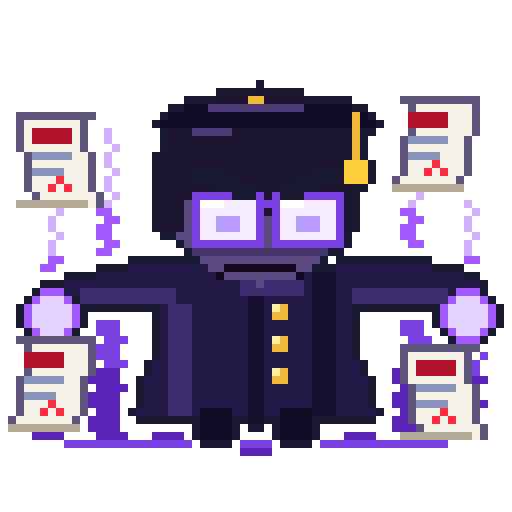
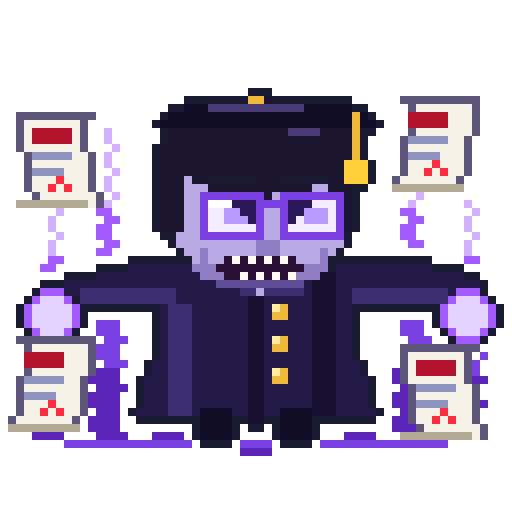
feat: finalize enemy character concepts and preview

diff --git a/docs/enemy-remodel/preview.html b/docs/enemy-remodel/preview.html
@@ -1,0 +1,122 @@
+<!doctype html>
+<html lang="en"><head><meta charset="utf-8"><meta name="viewport" content="width=device-width,initial-scale=1">
+<title>War of Collegian - Enemy Preview</title>
+<style>
+:root{--bg:#0e1a48;--panel:#142764;--ink:#081032;--chalk:#f1f4ff;--muted:#bcc4ea;--gold:#ffd23a;--sky:#9ad0f5;--road:#c3c8cf}
+*{box-sizing:border-box}body{margin:0;background:var(--bg);color:var(--chalk);font:15px/1.5 system-ui,"Segoe UI",sans-serif;padding:24px}
+h1{margin:0 0 4px;font-size:26px}h2{margin:32px 0 12px;font-size:20px;color:var(--gold)}p.lead{margin:0;color:var(--muted);max-width:80ch}
+img,.spr{image-rendering:pixelated}
+.bar{display:flex;gap:8px;flex-wrap:wrap;margin:16px 0}.bar button{font:inherit;color:var(--chalk);background:var(--panel);border:2px solid var(--ink);border-radius:10px;padding:6px 12px;cursor:pointer}
+.bar button[aria-pressed=true]{outline:3px solid var(--gold)}
+.grid{display:grid;grid-template-columns:repeat(auto-fill,minmax(420px,1fr));gap:16px}
+.card{background:var(--panel);border:2px solid var(--ink);border-radius:14px;padding:14px}.card.concept{border-color:var(--gold)}
+.card h3{margin:0;font-size:18px}.card header p{margin:2px 0 10px;color:var(--muted)}
+.tag{display:inline-block;padding:1px 8px;border-radius:999px;font-size:12px;font-weight:700;color:var(--ink)}.tag.game{background:#52d49a}.tag.concept{background:var(--gold)}
+.views{display:flex;gap:14px;align-items:flex-end;flex-wrap:wrap}figure{margin:0}figcaption{font-size:12px;color:var(--muted);margin-top:4px;max-width:340px}
+.s6{width:384px;height:384px;display:block}.s2{width:128px;height:128px;display:block}.flip{transform:scaleX(-1)}
+.bg-sky .s6,.bg-sky .field,.bg-sky .strip{background:linear-gradient(var(--sky) 70%,var(--road) 70%)}
+.bg-dark .s6,.bg-dark .field,.bg-dark .strip{background:#1c2250}
+.bg-check .s6,.bg-check .field,.bg-check .strip{background:repeating-conic-gradient(#d9d9d9 0 25%,#fff 0 50%) 0 0/16px 16px}
+.field{display:flex;align-items:flex-end;justify-content:center;gap:0;width:288px;height:150px;padding-bottom:2px}
+.spr{display:block;width:128px;height:128px;flex:none}.hero{background:url(../../assets/characters/ict/bug_hunter/idle.png) 0 0/400% 100% no-repeat}
+.meta{margin:10px 0 0;font-size:12.5px;color:var(--muted)}
+.strip{display:flex;align-items:flex-end;gap:0;padding:12px 8px 6px;border-radius:14px;overflow-x:auto}.strip figure{flex:none;text-align:center;width:150px}.strip figcaption{max-width:none;color:#13204f}
+.bg-dark .strip figcaption{color:var(--muted)}
+table{border-collapse:collapse;width:100%;max-width:980px;font-size:13.5px}th,td{text-align:left;padding:6px 10px;border-bottom:1px solid #2a3c86}th{color:var(--muted);font-weight:600}
+.note{color:var(--muted);font-size:13px;max-width:90ch}
+@media (max-width:520px){.s6{width:100%;height:auto;aspect-ratio:1}.field{width:100%}}
+</style></head>
+<body class="bg-sky">
+<h1>War of Collegian - Enemy preview (static, review build)</h1>
+<p class="lead">All nine enemies next to Bug Hunter. The five "in game" enemies are the current roster; the four "concept only" teaching-staff characters are <b>not</b> in gameplay. Sprites are 64x64 chibi pixel art with a dark inner and a white outer outline. No animation yet.</p>
+<div class="bar" role="group" aria-label="Background"><button data-bg="bg-sky" aria-pressed="true">Battlefield</button><button data-bg="bg-dark" aria-pressed="false">Dark</button><button data-bg="bg-check" aria-pressed="false">Transparency</button></div>
+
+<h2>Side by side with Bug Hunter (2x, as drawn in battle)</h2>
+<div class="strip"><figure><span class="spr hero"></span><figcaption>Bug Hunter</figcaption></figure><figure><img class="s2 flip" src="../../assets/enemies/assignment/idle.png" alt=""><figcaption>Assignment Monster</figcaption></figure><figure><img class="s2 flip" src="../../assets/enemies/deadline/idle.png" alt=""><figcaption>Deadline Monster</figcaption></figure><figure><img class="s2 flip" src="../../assets/enemies/group/idle.png" alt=""><figcaption>Group Project Gang</figcaption></figure><figure><img class="s2 flip" src="../../assets/enemies/quiz/idle.png" alt=""><figcaption>Midterm Exam</figcaption></figure><figure><img class="s2 flip" src="../../assets/enemies/final/idle.png" alt=""><figcaption>Final Exam</figcaption></figure><figure><img class="s2 flip" src="../../assets/enemies/professor/idle.png" alt=""><figcaption>Strict Professor</figcaption></figure><figure><img class="s2 flip" src="../../assets/enemies/ta/idle.png" alt=""><figcaption>Ruthless TA</figcaption></figure><figure><img class="s2 flip" src="../../assets/enemies/advisor/idle.png" alt=""><figcaption>Thesis Advisor</figcaption></figure><figure><img class="s2 flip" src="../../assets/enemies/exammaster/idle.png" alt=""><figcaption>Exam Master</figcaption></figure></div>
+<p class="note">Enemies are mirrored in the game so they face the heroes. The Final Exam boss is drawn 3.3x in the battle (2 x the 1.65 boss scale); Exam Master has no in-game scale yet.</p>
+
+<h2>Each enemy (6x and 2x)</h2>
+<div class="grid"><article class="card game">
+  <header><h3>Assignment Monster</h3><p><span class="tag game">in game</span> basic</p></header>
+  <div class="views">
+    <figure><img class="s6" src="../../assets/enemies/assignment/idle.png" alt="Assignment Monster 6x"><figcaption>6x (as authored, faces right)</figcaption></figure>
+    <figure><div class="field"><span class="spr hero"></span><img class="s2 flip" src="../../assets/enemies/assignment/idle.png" alt="Assignment Monster 2x"></div><figcaption>2x in battle: Bug Hunter vs Assignment Monster (mirrored toward the heroes)</figcaption></figure>
+  </div>
+  <p class="meta">64x64px, 24 colours, hard-edged, art 55 x 44</p>
+</article><article class="card game">
+  <header><h3>Deadline Monster</h3><p><span class="tag game">in game</span> fast</p></header>
+  <div class="views">
+    <figure><img class="s6" src="../../assets/enemies/deadline/idle.png" alt="Deadline Monster 6x"><figcaption>6x (as authored, faces right)</figcaption></figure>
+    <figure><div class="field"><span class="spr hero"></span><img class="s2 flip" src="../../assets/enemies/deadline/idle.png" alt="Deadline Monster 2x"></div><figcaption>2x in battle: Bug Hunter vs Deadline Monster (mirrored toward the heroes)</figcaption></figure>
+  </div>
+  <p class="meta">64x64px, 20 colours, hard-edged, art 61 x 43</p>
+</article><article class="card game">
+  <header><h3>Group Project Gang</h3><p><span class="tag game">in game</span> tank</p></header>
+  <div class="views">
+    <figure><img class="s6" src="../../assets/enemies/group/idle.png" alt="Group Project Gang 6x"><figcaption>6x (as authored, faces right)</figcaption></figure>
+    <figure><div class="field"><span class="spr hero"></span><img class="s2 flip" src="../../assets/enemies/group/idle.png" alt="Group Project Gang 2x"></div><figcaption>2x in battle: Bug Hunter vs Group Project Gang (mirrored toward the heroes)</figcaption></figure>
+  </div>
+  <p class="meta">64x64px, 18 colours, hard-edged, art 55 x 43</p>
+</article><article class="card game">
+  <header><h3>Midterm Exam</h3><p><span class="tag game">in game</span> ranged</p></header>
+  <div class="views">
+    <figure><img class="s6" src="../../assets/enemies/quiz/idle.png" alt="Midterm Exam 6x"><figcaption>6x (as authored, faces right)</figcaption></figure>
+    <figure><div class="field"><span class="spr hero"></span><img class="s2 flip" src="../../assets/enemies/quiz/idle.png" alt="Midterm Exam 2x"></div><figcaption>2x in battle: Bug Hunter vs Midterm Exam (mirrored toward the heroes)</figcaption></figure>
+  </div>
+  <p class="meta">64x64px, 23 colours, hard-edged, art 54 x 44</p>
+</article><article class="card game">
+  <header><h3>Final Exam</h3><p><span class="tag game">in game</span> boss &middot; drawn 3.3x in battle</p></header>
+  <div class="views">
+    <figure><img class="s6" src="../../assets/enemies/final/idle.png" alt="Final Exam 6x"><figcaption>6x (as authored, faces right)</figcaption></figure>
+    <figure><div class="field"><span class="spr hero"></span><img class="s2 flip" src="../../assets/enemies/final/idle.png" alt="Final Exam 2x"></div><figcaption>2x in battle: Bug Hunter vs Final Exam (mirrored toward the heroes)</figcaption></figure>
+  </div>
+  <p class="meta">64x64px, 21 colours, hard-edged, art 58 x 43</p>
+</article><article class="card concept">
+  <header><h3>Strict Professor</h3><p><span class="tag concept">concept only</span> concept (basic type)</p></header>
+  <div class="views">
+    <figure><img class="s6" src="../../assets/enemies/professor/idle.png" alt="Strict Professor 6x"><figcaption>6x (as authored, faces right)</figcaption></figure>
+    <figure><div class="field"><span class="spr hero"></span><img class="s2 flip" src="../../assets/enemies/professor/idle.png" alt="Strict Professor 2x"></div><figcaption>2x in battle: Bug Hunter vs Strict Professor (mirrored toward the heroes)</figcaption></figure>
+  </div>
+  <p class="meta">64x64px, 29 colours, hard-edged, art 58 x 49</p>
+</article><article class="card concept">
+  <header><h3>Ruthless TA</h3><p><span class="tag concept">concept only</span> concept (fast type)</p></header>
+  <div class="views">
+    <figure><img class="s6" src="../../assets/enemies/ta/idle.png" alt="Ruthless TA 6x"><figcaption>6x (as authored, faces right)</figcaption></figure>
+    <figure><div class="field"><span class="spr hero"></span><img class="s2 flip" src="../../assets/enemies/ta/idle.png" alt="Ruthless TA 2x"></div><figcaption>2x in battle: Bug Hunter vs Ruthless TA (mirrored toward the heroes)</figcaption></figure>
+  </div>
+  <p class="meta">64x64px, 27 colours, hard-edged, art 57 x 56</p>
+</article><article class="card concept">
+  <header><h3>Thesis Advisor</h3><p><span class="tag concept">concept only</span> concept (tank / support type)</p></header>
+  <div class="views">
+    <figure><img class="s6" src="../../assets/enemies/advisor/idle.png" alt="Thesis Advisor 6x"><figcaption>6x (as authored, faces right)</figcaption></figure>
+    <figure><div class="field"><span class="spr hero"></span><img class="s2 flip" src="../../assets/enemies/advisor/idle.png" alt="Thesis Advisor 2x"></div><figcaption>2x in battle: Bug Hunter vs Thesis Advisor (mirrored toward the heroes)</figcaption></figure>
+  </div>
+  <p class="meta">64x64px, 23 colours, hard-edged, art 54 x 48</p>
+</article><article class="card concept">
+  <header><h3>Exam Master</h3><p><span class="tag concept">concept only</span> concept (boss type)</p></header>
+  <div class="views">
+    <figure><img class="s6" src="../../assets/enemies/exammaster/idle.png" alt="Exam Master 6x"><figcaption>6x (as authored, faces right)</figcaption></figure>
+    <figure><div class="field"><span class="spr hero"></span><img class="s2 flip" src="../../assets/enemies/exammaster/idle.png" alt="Exam Master 2x"></div><figcaption>2x in battle: Bug Hunter vs Exam Master (mirrored toward the heroes)</figcaption></figure>
+  </div>
+  <p class="meta">64x64px, 30 colours, hard-edged, art 63 x 47</p>
+</article></div>
+
+<h2>Pixel-art consistency (measured from the PNG files)</h2>
+<table><thead><tr><th>Sprite</th><th>Status</th><th>Frame</th><th>Art size (px)</th><th>Colours</th><th>Edges</th><th>Outer outline white</th></tr></thead><tbody>
+<tr><td>Bug Hunter (reference hero)</td><td>reference</td><td>64x64</td><td>30 x 45</td><td>20</td><td>hard-edged</td><td>100%</td></tr>
+<tr><td>Assignment Monster</td><td>in game</td><td>64x64</td><td>55 x 44</td><td>24</td><td>hard-edged</td><td>76%</td></tr>
+<tr><td>Deadline Monster</td><td>in game</td><td>64x64</td><td>61 x 43</td><td>20</td><td>hard-edged</td><td>90%</td></tr>
+<tr><td>Group Project Gang</td><td>in game</td><td>64x64</td><td>55 x 43</td><td>18</td><td>hard-edged</td><td>96%</td></tr>
+<tr><td>Midterm Exam</td><td>in game</td><td>64x64</td><td>54 x 44</td><td>23</td><td>hard-edged</td><td>89%</td></tr>
+<tr><td>Final Exam</td><td>in game</td><td>64x64</td><td>58 x 43</td><td>21</td><td>hard-edged</td><td>95%</td></tr>
+<tr><td>Strict Professor</td><td>concept</td><td>64x64</td><td>58 x 49</td><td>29</td><td>hard-edged</td><td>97%</td></tr>
+<tr><td>Ruthless TA</td><td>concept</td><td>64x64</td><td>57 x 56</td><td>27</td><td>hard-edged</td><td>90%</td></tr>
+<tr><td>Thesis Advisor</td><td>concept</td><td>64x64</td><td>54 x 48</td><td>23</td><td>hard-edged</td><td>59%</td></tr>
+<tr><td>Exam Master</td><td>concept</td><td>64x64</td><td>63 x 47</td><td>30</td><td>hard-edged</td><td>38%</td></tr>
+</tbody></table>
+<p class="note">"Outer outline white" is the share of silhouette-edge pixels that are pure white (the heroes' light outer outline). Small detached bits such as sparks and loose pages are drawn without it, so it is below 100% on purpose. Every sprite is hard-edged (alpha is only 0 or 255), so nearest-neighbour scaling stays crisp.</p>
+<script>
+document.querySelectorAll('.bar button').forEach(function(b){b.addEventListener('click',function(){
+  document.body.className=b.dataset.bg;document.querySelectorAll('.bar button').forEach(function(x){x.setAttribute('aria-pressed',String(x===b))});});});
+</script>
+</body></html>

diff --git a/tools/gen-enemy-preview.js b/tools/gen-enemy-preview.js
@@ -1,0 +1,115 @@
+// Builds docs/enemy-remodel/preview.html: an offline browser page that shows all 9 enemies next to Bug Hunter
+// (6x enlarged, 2x as drawn in battle) with pixel-art consistency metrics measured from the real PNG files.
+// Run: node tools/gen-enemy-preview.js   (read-only for the game; writes only the HTML page)
+const fs = require('node:fs');
+const path = require('node:path');
+const { decodePng } = require('./pixel/png');
+
+const root = path.join(__dirname, '..');
+const LIST = [
+  { id: 'assignment', name: 'Assignment Monster', role: 'basic', state: 'game' },
+  { id: 'deadline', name: 'Deadline Monster', role: 'fast', state: 'game' },
+  { id: 'group', name: 'Group Project Gang', role: 'tank', state: 'game' },
+  { id: 'quiz', name: 'Midterm Exam', role: 'ranged', state: 'game' },
+  { id: 'final', name: 'Final Exam', role: 'boss', state: 'game', gameScale: 3.3 },
+  { id: 'professor', name: 'Strict Professor', role: 'concept (basic type)', state: 'concept' },
+  { id: 'ta', name: 'Ruthless TA', role: 'concept (fast type)', state: 'concept' },
+  { id: 'advisor', name: 'Thesis Advisor', role: 'concept (tank / support type)', state: 'concept' },
+  { id: 'exammaster', name: 'Exam Master', role: 'concept (boss type)', state: 'concept' },
+];
+const HERO = { id: 'bug', name: 'Bug Hunter (reference hero)', file: 'assets/characters/ict/bug_hunter/idle.png', frames: 4 };
+
+function measure(file, frames = 1) {
+  const png = decodePng(fs.readFileSync(path.join(root, file)));
+  const fw = png.w / frames, A = (x, y) => png.rgba[(y * png.w + x) * 4 + 3];
+  let x0 = 99, x1 = -1, y0 = 99, y1 = -1, soft = 0, n = 0, edge = 0, edgeWhite = 0;
+  const colours = new Set();
+  for (let y = 0; y < png.h; y++) for (let x = 0; x < fw; x++) {
+    const i = (y * png.w + x) * 4, a = png.rgba[i + 3];
+    if (!a) continue;
+    n++; if (a !== 255) soft++;
+    colours.add(png.rgba[i] + ',' + png.rgba[i + 1] + ',' + png.rgba[i + 2]);
+    x0 = Math.min(x0, x); x1 = Math.max(x1, x); y0 = Math.min(y0, y); y1 = Math.max(y1, y);
+    const open = x === 0 || y === 0 || x === fw - 1 || y === png.h - 1 || !A(x - 1, y) || !A(x + 1, y) || !A(x, y - 1) || !A(x, y + 1);
+    if (open) { edge++; if (png.rgba[i] > 245 && png.rgba[i + 1] > 245 && png.rgba[i + 2] > 245) edgeWhite++; }
+  }
+  return { w: fw, h: png.h, bbox: `${x1 - x0 + 1} x ${y1 - y0 + 1}`, top: y0, bottom: y1, colours: colours.size, soft, px: n, outerWhite: Math.round((100 * edgeWhite) / Math.max(1, edge)) };
+}
+
+const rows = [];
+const mHero = measure(HERO.file, HERO.frames);
+for (const e of LIST) e.m = measure(`assets/enemies/${e.id}/idle.png`);
+
+const esc = (s) => String(s).replace(/&/g, '&amp;').replace(/</g, '&lt;');
+const metricRow = (name, m, tag) => `<tr><td>${esc(name)}</td><td>${tag}</td><td>${m.w}x${m.h}</td><td>${m.bbox}</td><td>${m.colours}</td><td>${m.soft === 0 ? 'hard-edged' : m.soft + ' soft px'}</td><td>${m.outerWhite}%</td></tr>`;
+
+const card = (e) => `<article class="card ${e.state}">
+  <header><h3>${esc(e.name)}</h3><p><span class="tag ${e.state}">${e.state === 'game' ? 'in game' : 'concept only'}</span> ${esc(e.role)}${e.gameScale ? ` &middot; drawn ${e.gameScale}x in battle` : ''}</p></header>
+  <div class="views">
+    <figure><img class="s6" src="../../assets/enemies/${e.id}/idle.png" alt="${esc(e.name)} 6x"><figcaption>6x (as authored, faces right)</figcaption></figure>
+    <figure><div class="field"><span class="spr hero"></span><img class="s2 flip" src="../../assets/enemies/${e.id}/idle.png" alt="${esc(e.name)} 2x"></div><figcaption>2x in battle: Bug Hunter vs ${esc(e.name)} (mirrored toward the heroes)</figcaption></figure>
+  </div>
+  <p class="meta">${e.m.w}x${e.m.h}px, ${e.m.colours} colours, ${e.m.soft === 0 ? 'hard-edged' : e.m.soft + ' soft px'}, art ${e.m.bbox}</p>
+</article>`;
+
+const lineup = [
+  `<figure><span class="spr hero"></span><figcaption>Bug Hunter</figcaption></figure>`,
+  ...LIST.map((e) => `<figure><img class="s2 flip" src="../../assets/enemies/${e.id}/idle.png" alt=""><figcaption>${esc(e.name)}</figcaption></figure>`),
+].join('');
+
+const html = `<!doctype html>
+<html lang="en"><head><meta charset="utf-8"><meta name="viewport" content="width=device-width,initial-scale=1">
+<title>War of Collegian - Enemy Preview</title>
+<style>
+:root{--bg:#0e1a48;--panel:#142764;--ink:#081032;--chalk:#f1f4ff;--muted:#bcc4ea;--gold:#ffd23a;--sky:#9ad0f5;--road:#c3c8cf}
+*{box-sizing:border-box}body{margin:0;background:var(--bg);color:var(--chalk);font:15px/1.5 system-ui,"Segoe UI",sans-serif;padding:24px}
+h1{margin:0 0 4px;font-size:26px}h2{margin:32px 0 12px;font-size:20px;color:var(--gold)}p.lead{margin:0;color:var(--muted);max-width:80ch}
+img,.spr{image-rendering:pixelated}
+.bar{display:flex;gap:8px;flex-wrap:wrap;margin:16px 0}.bar button{font:inherit;color:var(--chalk);background:var(--panel);border:2px solid var(--ink);border-radius:10px;padding:6px 12px;cursor:pointer}
+.bar button[aria-pressed=true]{outline:3px solid var(--gold)}
+.grid{display:grid;grid-template-columns:repeat(auto-fill,minmax(420px,1fr));gap:16px}
+.card{background:var(--panel);border:2px solid var(--ink);border-radius:14px;padding:14px}.card.concept{border-color:var(--gold)}
+.card h3{margin:0;font-size:18px}.card header p{margin:2px 0 10px;color:var(--muted)}
+.tag{display:inline-block;padding:1px 8px;border-radius:999px;font-size:12px;font-weight:700;color:var(--ink)}.tag.game{background:#52d49a}.tag.concept{background:var(--gold)}
+.views{display:flex;gap:14px;align-items:flex-end;flex-wrap:wrap}figure{margin:0}figcaption{font-size:12px;color:var(--muted);margin-top:4px;max-width:340px}
+.s6{width:384px;height:384px;display:block}.s2{width:128px;height:128px;display:block}.flip{transform:scaleX(-1)}
+.bg-sky .s6,.bg-sky .field,.bg-sky .strip{background:linear-gradient(var(--sky) 70%,var(--road) 70%)}
+.bg-dark .s6,.bg-dark .field,.bg-dark .strip{background:#1c2250}
+.bg-check .s6,.bg-check .field,.bg-check .strip{background:repeating-conic-gradient(#d9d9d9 0 25%,#fff 0 50%) 0 0/16px 16px}
+.field{display:flex;align-items:flex-end;justify-content:center;gap:0;width:288px;height:150px;padding-bottom:2px}
+.spr{display:block;width:128px;height:128px;flex:none}.hero{background:url(../../assets/characters/ict/bug_hunter/idle.png) 0 0/400% 100% no-repeat}
+.meta{margin:10px 0 0;font-size:12.5px;color:var(--muted)}
+.strip{display:flex;align-items:flex-end;gap:0;padding:12px 8px 6px;border-radius:14px;overflow-x:auto}.strip figure{flex:none;text-align:center;width:150px}.strip figcaption{max-width:none;color:#13204f}
+.bg-dark .strip figcaption{color:var(--muted)}
+table{border-collapse:collapse;width:100%;max-width:980px;font-size:13.5px}th,td{text-align:left;padding:6px 10px;border-bottom:1px solid #2a3c86}th{color:var(--muted);font-weight:600}
+.note{color:var(--muted);font-size:13px;max-width:90ch}
+@media (max-width:520px){.s6{width:100%;height:auto;aspect-ratio:1}.field{width:100%}}
+</style></head>
+<body class="bg-sky">
+<h1>War of Collegian - Enemy preview (static, review build)</h1>
+<p class="lead">All nine enemies next to Bug Hunter. The five "in game" enemies are the current roster; the four "concept only" teaching-staff characters are <b>not</b> in gameplay. Sprites are 64x64 chibi pixel art with a dark inner and a white outer outline. No animation yet.</p>
+<div class="bar" role="group" aria-label="Background"><button data-bg="bg-sky" aria-pressed="true">Battlefield</button><button data-bg="bg-dark" aria-pressed="false">Dark</button><button data-bg="bg-check" aria-pressed="false">Transparency</button></div>
+
+<h2>Side by side with Bug Hunter (2x, as drawn in battle)</h2>
+<div class="strip">${lineup}</div>
+<p class="note">Enemies are mirrored in the game so they face the heroes. The Final Exam boss is drawn 3.3x in the battle (2 x the 1.65 boss scale); Exam Master has no in-game scale yet.</p>
+
+<h2>Each enemy (6x and 2x)</h2>
+<div class="grid">${LIST.map(card).join('')}</div>
+
+<h2>Pixel-art consistency (measured from the PNG files)</h2>
+<table><thead><tr><th>Sprite</th><th>Status</th><th>Frame</th><th>Art size (px)</th><th>Colours</th><th>Edges</th><th>Outer outline white</th></tr></thead><tbody>
+${metricRow(HERO.name, mHero, 'reference')}
+${LIST.map((e) => metricRow(e.name, e.m, e.state === 'game' ? 'in game' : 'concept')).join('\n')}
+</tbody></table>
+<p class="note">"Outer outline white" is the share of silhouette-edge pixels that are pure white (the heroes' light outer outline). Small detached bits such as sparks and loose pages are drawn without it, so it is below 100% on purpose. Every sprite is hard-edged (alpha is only 0 or 255), so nearest-neighbour scaling stays crisp.</p>
+<script>
+document.querySelectorAll('.bar button').forEach(function(b){b.addEventListener('click',function(){
+  document.body.className=b.dataset.bg;document.querySelectorAll('.bar button').forEach(function(x){x.setAttribute('aria-pressed',String(x===b))});});});
+</script>
+</body></html>
+`;
+fs.writeFileSync(path.join(root, 'docs', 'enemy-remodel', 'preview.html'), html);
+console.log('docs/enemy-remodel/preview.html', LIST.length, 'enemies');
+for (const e of LIST) console.log(e.id.padEnd(11), JSON.stringify(e.m));
+console.log('bug hero'.padEnd(11), JSON.stringify(mHero));

diff --git a/tools/gen-enemies.js b/tools/gen-enemies.js
@@ -271,10 +271,12 @@ function drawTA() {
   b.rect(29, 33, 1, 8, '#ff6fa6'); b.rect(34, 33, 1, 8, '#ff6fa6'); b.rect(30, 40, 4, 5, P.paperHi); b.rect(31, 41, 2, 2, '#58b8ff');
   // hair: dark mass + big bun on top
   ell(b, 32 + hx, 18, 12, 9, '#2b2038'); b.rect(21 + hx, 20, 3, 9, '#2b2038'); b.rect(41 + hx, 20, 3, 8, '#2b2038');
-  ell(b, 26 + hx, 12, 5, 4, '#2b2038'); b.rect(24 + hx, 9, 2, 1, '#5a4670'); b.rect(23 + hx, 11, 2, 1, '#5a4670'); b.rect(31 + hx, 12, 2, 2, '#ff6fa6');
   head(b, hx, 0);
   ell(b, 32 + hx, 17, 12, 7, '#2b2038'); b.rect(21 + hx, 19, 3, 9, '#2b2038'); b.rect(41 + hx, 19, 3, 8, '#2b2038'); b.rect(25 + hx, 18, 16, 2, '#2b2038');
   b.rect(27 + hx, 13, 9, 1, '#5a4670'); b.rect(25 + hx, 14, 7, 1, '#5a4670');
+  // the bun: a round ball on top of the head with a pink hair tie and shine
+  ell(b, 32 + hx, 8, 6, 5, '#2b2038'); b.rect(29 + hx, 4, 5, 1, '#6a5488'); b.rect(28 + hx, 5, 2, 1, '#6a5488'); b.rect(34 + hx, 6, 2, 2, '#6a5488'); b.rect(30 + hx, 7, 2, 1, '#6a5488');
+  b.rect(27 + hx, 12, 11, 2, '#ff6fa6'); b.rect(27 + hx, 12, 11, 1, '#ffb0cc'); b.rect(29 + hx, 13, 1, 1, '#c93f7c');
   brows(b, hx, 0, 21);
   // round glasses with tired narrowed eyes
   for (const x of [28, 38]) { b.ring(x + hx, 27, 3, '#2b2038'); b.rect(x + hx - 1, 26, 3, 2, LENS); b.rect(x + hx, 26, 2, 2, OUT_DARK); b.set(x + hx - 2, 25, P.paperHi); }
@@ -347,12 +349,19 @@ function drawExamMaster() {
   b.shape(42, 33, [[0, 12], [0, 16], [0, 18], [0, 18], [6, 12]], '#241a48'); b.rect(44, 36, 12, 2, '#3c2d70');
   b.disc(6, 39, 3, '#a35bff'); b.disc(6, 39, 2, '#e4d2ff'); b.disc(58, 39, 3, '#a35bff'); b.disc(58, 39, 2, '#e4d2ff');
   // head in shadow: dark hair, pale-violet face, glowing lenses instead of eyes
-  ell(b, 32, 25, 11, 10, '#5b4a82'); b.rect(24, 31, 17, 1, '#43356a');
-  ell(b, 32, 19, 12, 8, '#1c1530'); b.rect(20, 20, 3, 9, '#1c1530'); b.rect(41, 20, 3, 9, '#1c1530'); b.rect(26, 15, 6, 1, '#4a3a78'); b.rect(24, 16, 5, 1, '#4a3a78');
-  for (const x of [24, 34]) { b.rect(x, 24, 9, 7, '#7a3fe0'); b.rect(x + 1, 25, 7, 5, '#f4ecff'); b.rect(x + 1, 25, 3, 1, P.paperHi); b.rect(x + 3, 27, 3, 2, '#b99aff'); }
-  b.rect(33, 25, 1, 1, '#7a3fe0');
-  for (let k = 0; k < 7; k++) { b.rect(24 + k, 21 + Math.floor(k * 0.4), 2, 2, OUT_DARK); b.rect(41 - k, 21 + Math.floor(k * 0.4), 2, 2, OUT_DARK); }
-  b.rect(28, 33, 9, 1, '#14091f'); b.set(27, 34, '#14091f'); b.set(37, 34, '#14091f');
+  const FACE = '#b9a9e4', FACE_SH = '#8f7cc2', FACE_DK = '#5f4c96';
+  ell(b, 32, 26, 11, 10, FACE); b.rect(24, 33, 17, 1, FACE_SH); b.rect(25, 34, 15, 1, FACE_SH); b.rect(27, 35, 11, 1, FACE_DK); // jaw shade
+  ell(b, 32, 18, 12, 6, '#1c1530'); b.rect(20, 19, 3, 10, '#1c1530'); b.rect(41, 19, 3, 10, '#1c1530'); b.rect(24, 21, 17, 2, '#1c1530');
+  b.rect(26, 14, 6, 1, '#4a3a78'); b.rect(24, 15, 5, 1, '#4a3a78'); b.rect(36, 16, 4, 1, '#4a3a78');
+  // glowing lenses (smaller than before so the cheeks show), slanted angry lids
+  for (const x of [25, 35]) { b.rect(x, 24, 8, 6, '#7a3fe0'); b.rect(x + 1, 25, 6, 4, '#f4ecff'); b.rect(x + 1, 25, 3, 1, P.paperHi); b.rect(x + 3, 26, 3, 2, '#b99aff'); }
+  b.rect(33, 25, 2, 1, '#7a3fe0');
+  for (const [x, y] of [[29, 25], [30, 25], [31, 25], [30, 26], [31, 26], [31, 27]]) { b.set(x, y, '#2a1858'); b.set(67 - x, y, '#2a1858'); }
+  b.rect(26, 22, 6, 1, OUT_DARK); b.rect(35, 22, 6, 1, OUT_DARK); // heavy brows resting on the lens rims
+  // face: nose shadow, nasolabial lines, grim mouth with bared teeth
+  b.rect(32, 30, 3, 2, FACE_SH); b.rect(25, 31, 1, 3, FACE_SH); b.rect(40, 31, 1, 3, FACE_SH);
+  b.rect(28, 32, 9, 3, '#2a1034'); for (let k = 0; k < 4; k++) { b.rect(29 + k * 2, 32, 1, 1, P.tooth); b.rect(30 + k * 2, 34, 1, 1, P.tooth); }
+  b.set(27, 33, '#2a1034'); b.set(37, 33, '#2a1034');
   // mortarboard with gold tassel
   b.shape(20, 13, [[3, 21], [1, 25], [0, 27]], '#120d26'); b.rect(26, 13, 12, 1, '#4a3a78'); b.rect(31, 12, 2, 1, '#f0b93a'); b.rect(44, 14, 1, 6, '#f0b93a'); b.rect(43, 20, 3, 3, GOLD);
   b.outline(OUT_DARK); b.outline(OUT_WHITE);
